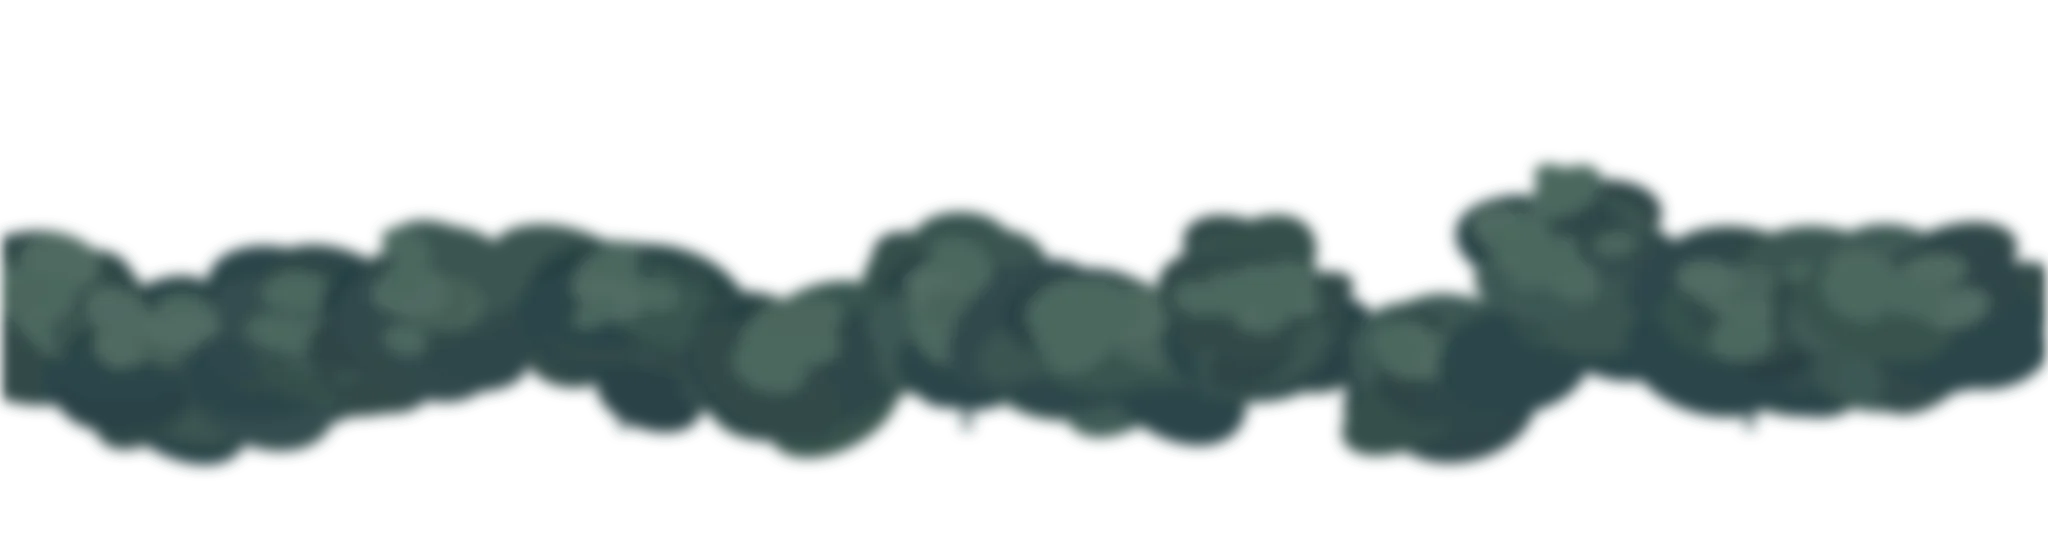
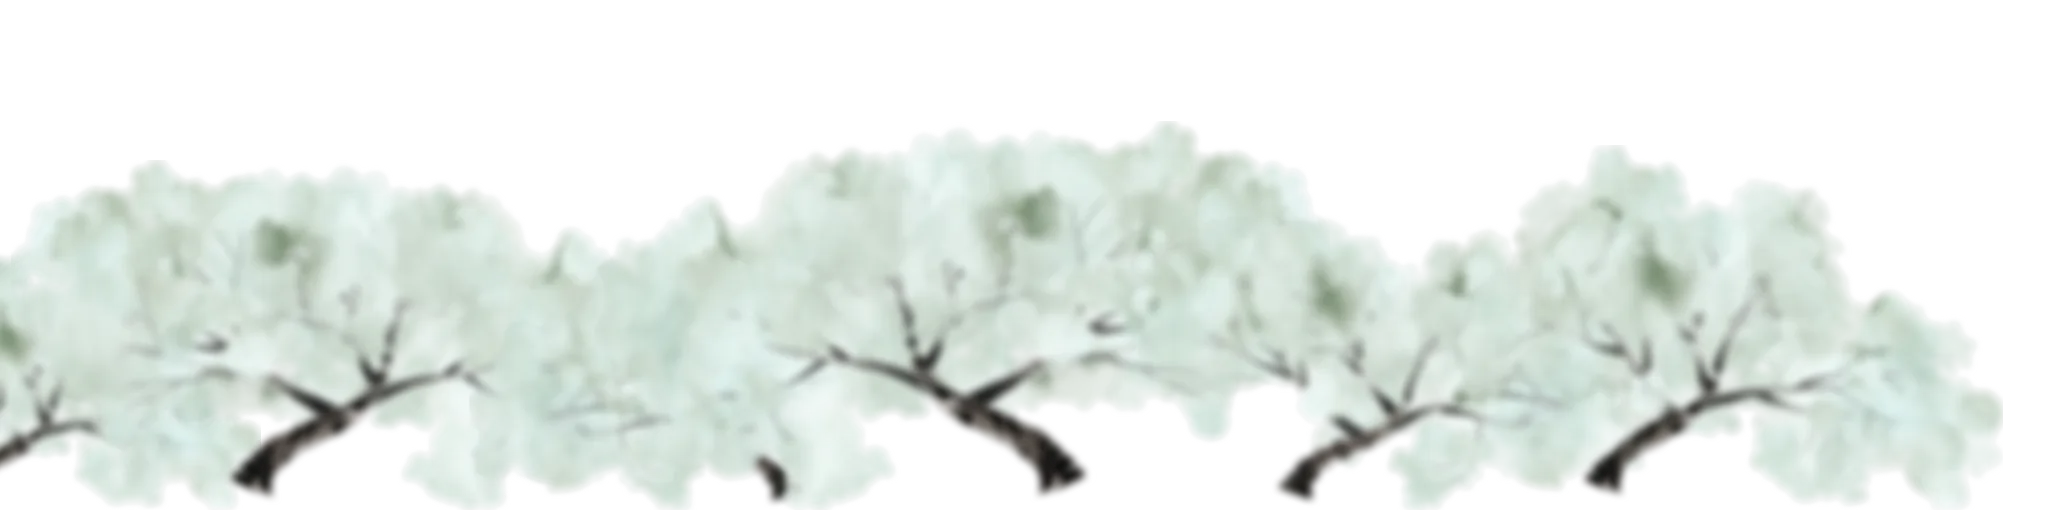
The hero's trees are the Bloom engine's now: green sakura, kit grass
- The daub trees are gone. tree-a/b/c are pre-rendered with the
  recompile Bloom engine itself (bloomTree.ts run headless): sumi-e
  brush strokes warped along procedural branch spines, one continuous
  watercolor canopy clipped through the cluster mask — with the rose
  canopy hue-shifted to the journal's green for a night sakura.
- The grove band is the same trees softened and mist-lifted; the grass
  is composed from the painterly kit's sage clumps and tufts,
  night-tinted.
- Every scene plane is now a natural-aspect image anchored by its feet
  instead of object-cover cropped — which removes the hard horizontal
  line the old grove crop drew across the hero.
- Near trees darkest, mid hazier, grove lightest; the aurora keeps the
  sky between the crowns.

diff --git a/web/components/hero/JournalHero.tsx b/web/components/hero/JournalHero.tsx
@@ -4,11 +4,16 @@
  * The hero: the journal's own night, built in layers instead of painted flat.
  *
  * Back to front — a deep pine sky wearing the halftone print screen, the
- * shader aurora (AuroraVeil) hanging in it, then three planes of generated
- * riso-print forest (public/hero/journal/*.webp, keyed from white): a misty
- * far treeline, a mid band, and two near wings that frame the copy. Fog
+ * shader aurora (AuroraVeil) hanging in it, then planes of sumi-e bloom
+ * trees (public/hero/journal/tree-*.webp): green-canopy sakura pre-rendered
+ * with the recompile Bloom engine (real ink-brush strokes warped along
+ * procedural branch spines, one continuous watercolor canopy clipped through
+ * the cluster mask, hue-shifted rose→green), a softened distant grove of the
+ * same, and the painterly kit's sage grass clumps as the ground. Fog
  * gradients sit between the planes so depth reads as air, not as stacking.
- * The blob companion sleeps on the ground among brass fireflies — it is the
+ * Every plane is a natural-aspect image anchored by its feet — nothing is
+ * cover-cropped, so no layer can draw a hard horizontal edge.
+ * The blob companion sleeps in the grass among brass fireflies — it is the
  * same live start-a-trip button the aurora scene had; its chrome tokens are
  * remapped to journal pigments in globals.css.
  *
@@ -158,38 +163,38 @@ export function JournalHero({ dateLabel, placeLabel }: { dateLabel: string; plac
       {/* The aurora, hanging in the upper sky. */}
       <AuroraVeil className="pointer-events-none absolute inset-x-0 top-0 h-[58%]" />
 
-      {/* The distant grove — a hazy painted band a field away. */}
-      <div data-plx="1" className="pointer-events-none absolute inset-x-[-2%]" style={{ bottom: "22%", height: "24%" }}>
-        <img
-          src="/hero/journal/grove.webp"
-          alt=""
-          aria-hidden
-          draggable={false}
-          className="h-full w-full select-none object-cover object-bottom"
-          style={{ opacity: 0.55, filter: "brightness(1.5) saturate(0.7)" }}
-        />
-      </div>
+      {/* The distant grove — softened bloom trees a field away. Natural
+          aspect, anchored by its feet: no crop, so no crop line. */}
+      <img
+        src="/hero/journal/grove.webp"
+        alt=""
+        aria-hidden
+        data-plx="1"
+        draggable={false}
+        className="pointer-events-none absolute bottom-[21%] left-1/2 w-[118%] max-w-none -translate-x-1/2 select-none"
+        style={{ opacity: 0.5 }}
+      />
       {/* Valley fog in front of the grove. */}
       <div
         aria-hidden
         className="pointer-events-none absolute inset-x-0"
         style={{
-          bottom: "18%",
+          bottom: "16%",
           height: "18%",
           background:
             "linear-gradient(180deg, rgb(169 189 185 / 0) 0%, rgb(169 189 185 / 0.12) 55%, rgb(169 189 185 / 0) 100%)",
         }}
       />
 
-      {/* The middle distance — painted trees standing back in the haze. */}
+      {/* The middle distance — bloom trees standing back in the haze. */}
       <img
         src="/hero/journal/tree-b.webp"
         alt=""
         aria-hidden
         data-plx="2"
         draggable={false}
-        className="pointer-events-none absolute left-[13%] h-[30%] w-auto select-none"
-        style={{ bottom: "13%", opacity: 0.72, filter: "brightness(1.35) saturate(0.75)" }}
+        className="pointer-events-none absolute left-[9%] w-[21%] max-w-none select-none"
+        style={{ bottom: "14%", opacity: 0.6, filter: "brightness(1.12) saturate(0.85)" }}
       />
       <img
         src="/hero/journal/tree-c.webp"
@@ -197,30 +202,30 @@ export function JournalHero({ dateLabel, placeLabel }: { dateLabel: string; plac
         aria-hidden
         data-plx="2"
         draggable={false}
-        className="pointer-events-none absolute right-[24%] h-[26%] w-auto -scale-x-100 select-none"
-        style={{ bottom: "14%", opacity: 0.66, filter: "brightness(1.4) saturate(0.7)" }}
+        className="pointer-events-none absolute right-[21%] w-[18%] max-w-none -scale-x-100 select-none"
+        style={{ bottom: "15%", opacity: 0.55, filter: "brightness(1.18) saturate(0.8)" }}
       />
       {/* Ground fog at the middle trees' feet. */}
       <div
         aria-hidden
         className="pointer-events-none absolute inset-x-0"
         style={{
-          bottom: "8%",
+          bottom: "7%",
           height: "13%",
           background:
             "linear-gradient(180deg, rgb(169 189 185 / 0) 0%, rgb(169 189 185 / 0.1) 60%, rgb(169 189 185 / 0) 100%)",
         }}
       />
 
-      {/* The near trees — each its own painted portrait, framing the page. */}
+      {/* The near trees — the bloom engine's sakura, green, framing the page. */}
       <img
         src="/hero/journal/tree-a.webp"
         alt=""
         aria-hidden
         data-plx="3"
         draggable={false}
-        className="pointer-events-none absolute left-[-7%] h-[64%] w-auto select-none"
-        style={{ bottom: "1%" }}
+        className="pointer-events-none absolute bottom-[4%] left-[-16%] w-[44%] max-w-none select-none"
+        style={{ filter: "brightness(0.78) saturate(1.05)" }}
       />
       <img
         src="/hero/journal/tree-c.webp"
@@ -228,20 +233,20 @@ export function JournalHero({ dateLabel, placeLabel }: { dateLabel: string; plac
         aria-hidden
         data-plx="3"
         draggable={false}
-        className="pointer-events-none absolute right-[-8%] h-[56%] w-auto -scale-x-100 select-none"
-        style={{ bottom: "2%", filter: "brightness(0.94)" }}
+        className="pointer-events-none absolute bottom-[5%] right-[-15%] w-[40%] max-w-none -scale-x-100 select-none"
+        style={{ filter: "brightness(0.72) saturate(1.05)" }}
       />
 
-      {/* The painted grass the walk starts on. */}
-      <div data-plx="3" className="pointer-events-none absolute inset-x-[-1%] bottom-0" style={{ height: "15%" }}>
-        <img
-          src="/hero/journal/grass.webp"
-          alt=""
-          aria-hidden
-          draggable={false}
-          className="h-full w-full select-none object-cover object-top"
-        />
-      </div>
+      {/* The painted grass the walk starts on — the kit's sage clumps. */}
+      <img
+        src="/hero/journal/grass.webp"
+        alt=""
+        aria-hidden
+        data-plx="3"
+        draggable={false}
+        className="pointer-events-none absolute bottom-[-2%] left-1/2 w-[104%] max-w-none -translate-x-1/2 select-none"
+        style={{ filter: "brightness(0.85)" }}
+      />
 
       {/* Fireflies, drifting between the trees. */}
       {FIREFLIES.map(([l, t, dx, dy, dur, delay], i) => (

diff --git a/DESIGN.md b/DESIGN.md
@@ -1,7 +1,7 @@
 ---
-version: 5.7
+version: 5.8
 name: Spark-field-notes
-description: "FIELD NOTES v5.2 — the robot as a field naturalist, and the site as its journal. Grainy cream paper (#faf4e3), deep pine ink (#16292e), and pressed specimen inks: brass #d5b473, moss #7d7730, clay #cf5e32, lagoon #476d73. One neo-grotesk (Schibsted Grotesk) carries display through UI; a typewriter mono (Fragment Mono) carries the journal's [ BRACKETED ] specimen tags. The landing is scroll cinema: a halftone-dot pine hero with a blur-cycling last line and a ticker of the kept moments, a pinned typeset sieve (the day's noticed words crossed out in ink until six circled entries remain — 'It noticed 9,984 things. It kept six.'), a smeared marquee band into three dark plates that draw their own instruments with honest count-ups and then keep idling (twinkling detections, a marching keep-line, a brass dot lapping the route), a pinned deck of taped-down photographs leafed through one flick at a time, a crossed-out-pages ledger of every discard, a three-line statement with 'Six were.' circled in clay, a numbered field-notes index answered on a taped ruled sheet, and a finale where the pane of glass floats dead-centre over the giant wordmark. An opt-in 'night air' layer (wind + crickets) is synthesized on device. v5.3: the app screens (walk / splat / bench) joined the journal — the walk is a cream survey map generated from the same palette, chrome rides on vellum slips, and the splat stage is the journal's one dark pine plate. v5.4: typographic choreography and honest pins — the hero's lines rise out of per-line masks and the last line rolls through its mask every 3.4s, section h2s split and rise line-by-line (SplitText, blur + fade), the map's numbered circle pins became specimen banners flying each moment's wall clock in its pressed ink (the pressed ink faces are now the journal's own six-ink cycle), the day bar plants wordless miniature pennants with vellum hover slips, NumberChip is a typewriter number circled by the hand-drawn pen ring, and the survey map's greens and water turned up from tinted paper to living moss and wet lagoon. v5.5: the two landings fused — the painted aurora night scene (art-directed plates, live CSS aurora, the sleeping blob companion who IS the start-a-trip button) opens the page under the journal's glass bar, the kept-moments ticker is the seam into the sieve, and the aurora album library folds in as 'The shelf': every album a taped vellum print of its moment thumbs, /library redirecting to /#albums. v5.6: the hero rebuilt as the journal's own layered night — generated riso-print forest planes (keyed tree bands) with fog between them, a real-time shader aurora in lagoon/mist/brass, pointer + scroll parallax by depth, brass fireflies, the blob companion re-inked in journal pigments, and the journal's masked rolling headline back on top; the flagship data moved to Toronto — STACKT Market to the red canoe on street-following odometry."
+description: "FIELD NOTES v5.2 — the robot as a field naturalist, and the site as its journal. Grainy cream paper (#faf4e3), deep pine ink (#16292e), and pressed specimen inks: brass #d5b473, moss #7d7730, clay #cf5e32, lagoon #476d73. One neo-grotesk (Schibsted Grotesk) carries display through UI; a typewriter mono (Fragment Mono) carries the journal's [ BRACKETED ] specimen tags. The landing is scroll cinema: a halftone-dot pine hero with a blur-cycling last line and a ticker of the kept moments, a pinned typeset sieve (the day's noticed words crossed out in ink until six circled entries remain — 'It noticed 9,984 things. It kept six.'), a smeared marquee band into three dark plates that draw their own instruments with honest count-ups and then keep idling (twinkling detections, a marching keep-line, a brass dot lapping the route), a pinned deck of taped-down photographs leafed through one flick at a time, a crossed-out-pages ledger of every discard, a three-line statement with 'Six were.' circled in clay, a numbered field-notes index answered on a taped ruled sheet, and a finale where the pane of glass floats dead-centre over the giant wordmark. An opt-in 'night air' layer (wind + crickets) is synthesized on device. v5.3: the app screens (walk / splat / bench) joined the journal — the walk is a cream survey map generated from the same palette, chrome rides on vellum slips, and the splat stage is the journal's one dark pine plate. v5.4: typographic choreography and honest pins — the hero's lines rise out of per-line masks and the last line rolls through its mask every 3.4s, section h2s split and rise line-by-line (SplitText, blur + fade), the map's numbered circle pins became specimen banners flying each moment's wall clock in its pressed ink (the pressed ink faces are now the journal's own six-ink cycle), the day bar plants wordless miniature pennants with vellum hover slips, NumberChip is a typewriter number circled by the hand-drawn pen ring, and the survey map's greens and water turned up from tinted paper to living moss and wet lagoon. v5.5: the two landings fused — the painted aurora night scene (art-directed plates, live CSS aurora, the sleeping blob companion who IS the start-a-trip button) opens the page under the journal's glass bar, the kept-moments ticker is the seam into the sieve, and the aurora album library folds in as 'The shelf': every album a taped vellum print of its moment thumbs, /library redirecting to /#albums. v5.6: the hero rebuilt as the journal's own layered night — generated riso-print forest planes (keyed tree bands) with fog between them, a real-time shader aurora in lagoon/mist/brass, pointer + scroll parallax by depth, brass fireflies, the blob companion re-inked in journal pigments, and the journal's masked rolling headline back on top; the flagship data moved to Toronto — STACKT Market to the red canoe on street-following odometry. v5.7: the walk snapped to real pedestrian ways (OSM foot-way bake). v5.8: the hero's forest is the recompile Bloom engine's — green-canopy sumi-e sakura pre-rendered headless (ink brushes warped along procedural spines, one continuous watercolor canopy through the cluster mask, rose hue-shifted green), a softened grove of the same, and the painterly kit's sage grass; every plane a natural-aspect image so no layer draws a hard edge."
 ---
 
 Applies to `web/`. Tokens live in `web/app/globals.css` (@theme) and are mirrored for
@@ -111,14 +111,15 @@ choreography, in order:
    dotfield; a real-time shader aurora (`AuroraVeil.tsx`: R3F fragment shader,
    anisotropic fbm curtains in lagoon→mist with a brass hem, screen-blended so
    black is neutral; single demanded frame under reduced motion or offscreen);
-   then a PAINTERLY forest in planes (v5.7): every tree is painted by a
-   generative brush script (hundreds of directional daubs over a solid dark
-   undermass, light concentrated on two or three lit lobes, blue-grey forked
-   trunks with one lit edge, a few daubs blowing off the lee side — the
-   painterly-reference technique in the journal's night values), exported as
-   sprites to `public/hero/journal/` (`tree-a/b/c.webp`, a blurred `grove.webp`
-   band, a tufted `grass.webp` foreground). Far grove → fog → mid trees → fog →
-   two near tree portraits framing the copy → painted grass. Brass fireflies
+   then a NIHONGA forest in planes (v5.8): the trees are green-canopy sakura
+   pre-rendered with the recompile project's Bloom engine — sumi-e ink brush
+   strokes warped along procedural branch spines, one continuous watercolor
+   canopy clipped through the cluster mask, the rose canopy hue-shifted to the
+   journal's green — exported to `public/hero/journal/` (`tree-a/b/c.webp`,
+   a softened `grove.webp` of the same trees, and `grass.webp` composed from
+   the painterly kit's sage clumps). Far grove → fog → mid trees → fog → two
+   near sakura framing the copy → sage grass. Every plane is a natural-aspect
+   image anchored by its feet — nothing cover-cropped, so no hard edges. Brass fireflies
    drift on CSS; the blob companion sleeps on the grass, no glow pool under it
    (same live start-a-trip button — its aurora chrome tokens are remapped to
    journal pigments inside `.journal-hero`). Typography is the
